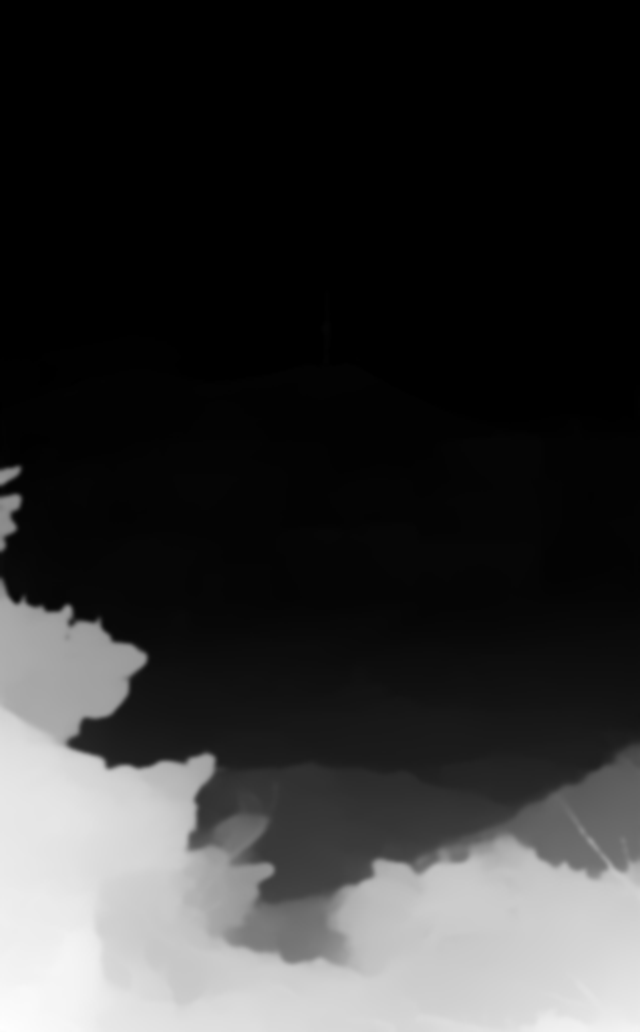
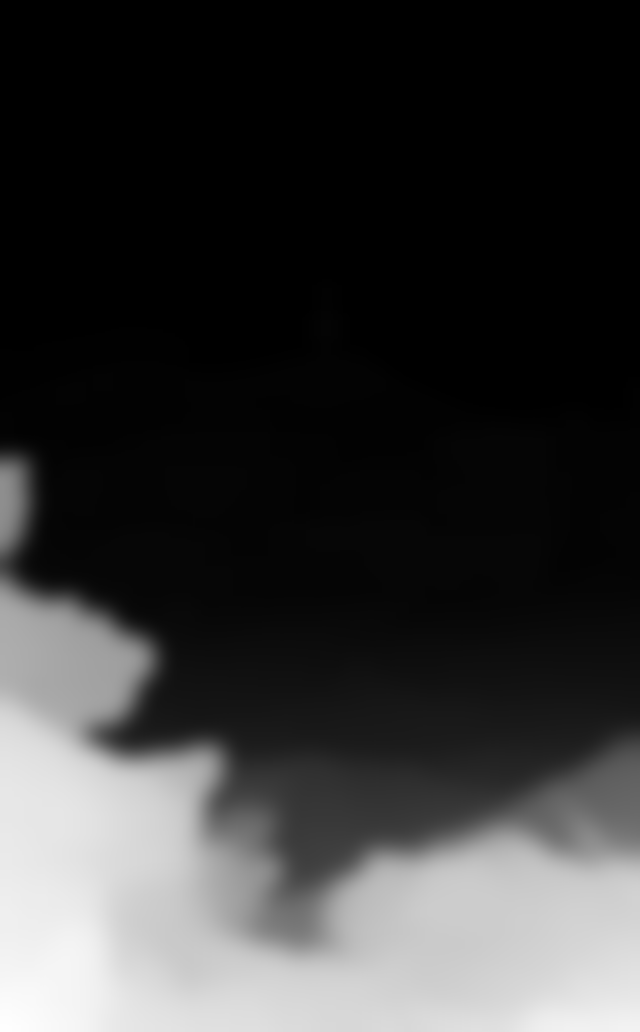
Polaris 첫 화면 입체: 소나무 잎 가장자리가 일렁이지 않게
- 깊이 지도에서 앞쪽을 넓히고(MaxFilter) 크게 뭉갬: 잎 사이 하늘도 나무와 같이 움직인다
- 밀어내는 폭과 처음 다가서는 폭을 줄임 (폰은 사진을 크게 잘라 보여서 더 작게)

Claude-Session: https://claude.ai/code/session_01DdAt1ofbNS1MDTDVmK7oAP

Changed region(s): [[0.0, 0.4341, 1.0, 0.9302]]

diff --git a/chat/index.html b/chat/index.html
@@ -499,7 +499,7 @@ document.querySelectorAll('.login').forEach((b) => b.addEventListener('click', a
   location.href = '/#intranet';
 }));
 
-// 첫 화면 사진 입체: 깊이 지도(1=가까움)로 앞 소나무·도시·하늘을 다른 속도로 움직인다 (assets/dipper.html과 같은 방식)
+// 첫 화면 사진 입체: 깊이 지도(1=가까움, 잎 사이로 일렁이지 않게 앞쪽을 넓히고 크게 뭉갬)로 앞 소나무·도시·하늘을 다른 속도로 움직인다 (assets/dipper.html과 같은 방식)
 // 처음 12초는 천천히 다가서며 저절로 흔들리고, 그 뒤로는 마우스를 따라서만 움직인다. 동작 줄이기 설정이면 사진 그대로
 (() => {
   const hero = $('hero'), cv = $('hero3d');
@@ -512,12 +512,12 @@ document.querySelectorAll('.login').forEach((b) => b.addEventListener('click', a
   dimg.src = mob ? '/assets/hero/polaris-depth-m.png' : '/assets/hero/polaris-depth.png';
   const vs = 'attribute vec2 p;void main(){gl_Position=vec4(p,0.,1.);}';
   const fs = `precision highp float;
-    uniform sampler2D I,D; uniform vec2 R,S,M; uniform float Z,Y;
+    uniform sampler2D I,D; uniform vec2 R,S,M; uniform float Z,Y,A;
     vec2 cover(vec2 f){ float sr=R.x/R.y, ir=S.x/S.y; vec2 uv=f/R; uv.y=1.-uv.y;
       if(sr>ir){ float h=ir/sr; uv.y=uv.y*h+(1.-h)*Y; } else { float w=sr/ir; uv.x=uv.x*w+(1.-w)*.5; } return uv; }
     void main(){
       vec2 uv=cover(gl_FragCoord.xy), c=vec2(.5,.5), q=uv;
-      for(int i=0;i<4;i++){ float d=texture2D(D,q).r; float s=1.04+Z*(.25+.75*d); q=c+(uv-c)/s - M*(d-.25)*.035; }
+      for(int i=0;i<4;i++){ float d=texture2D(D,q).r; float s=1.03+Z*(.3+.7*d); q=c+(uv-c)/s - M*(d-.25)*A; }
       vec3 col=texture2D(I,clamp(q,.001,.999)).rgb*.78;          // CSS filter: brightness(.78) contrast(1.06)
       gl_FragColor=vec4(clamp((col-.5)*1.06+.5,0.,1.),1.);
     }`;
@@ -544,7 +544,7 @@ document.querySelectorAll('.login').forEach((b) => b.addEventListener('click', a
     const t = (now - t0) / 1000, intro = t < 12;
     const gx = intro && !on ? Math.sin(t * .2) * .6 : tx * 2, gy = intro && !on ? Math.cos(t * .14) * .35 : -ty * 2;
     mx += (gx - mx) * .05; my += (gy - my) * .05;
-    g.uniform2f(U('R'), w, h); g.uniform2f(U('M'), mx, my); g.uniform1f(U('Z'), .14 * Math.pow(Math.max(0, 1 - t / 12), 2.2));
+    g.uniform2f(U('R'), w, h); g.uniform2f(U('M'), mx, my); g.uniform1f(U('Z'), (mob ? .06 : .09) * Math.pow(Math.max(0, 1 - t / 12), 2.2));
     g.drawArrays(g.TRIANGLE_STRIP, 0, 4);
     if (!intro && Math.abs(gx - mx) < .002 && Math.abs(gy - my) < .002) { drawing = false; return; }   // 다 멎으면 쉰다
     requestAnimationFrame(draw);
@@ -553,7 +553,8 @@ document.querySelectorAll('.login').forEach((b) => b.addEventListener('click', a
   const one = () => {
     if (++n < 2) return;
     tex(0, img); tex(1, dimg); g.uniform1i(U('I'), 0); g.uniform1i(U('D'), 1);
-    g.uniform2f(U('S'), img.naturalWidth, img.naturalHeight); g.uniform1f(U('Y'), mob ? .35 : .38);   // CSS background-position과 같게
+    g.uniform2f(U('S'), img.naturalWidth, img.naturalHeight); g.uniform1f(U('Y'), mob ? .35 : .38);
+    g.uniform1f(U('A'), mob ? .014 : .022);   // 밀어내는 폭. 폰은 사진을 크게 잘라 보여서 더 작게 (크면 잎 가장자리가 일렁인다)   // CSS background-position과 같게
     hero.classList.add('p3d'); t0 = performance.now(); wake();
   };
   [img, dimg].forEach((im) => (im.complete && im.naturalWidth ? one() : im.addEventListener('load', one, { once: true })));
